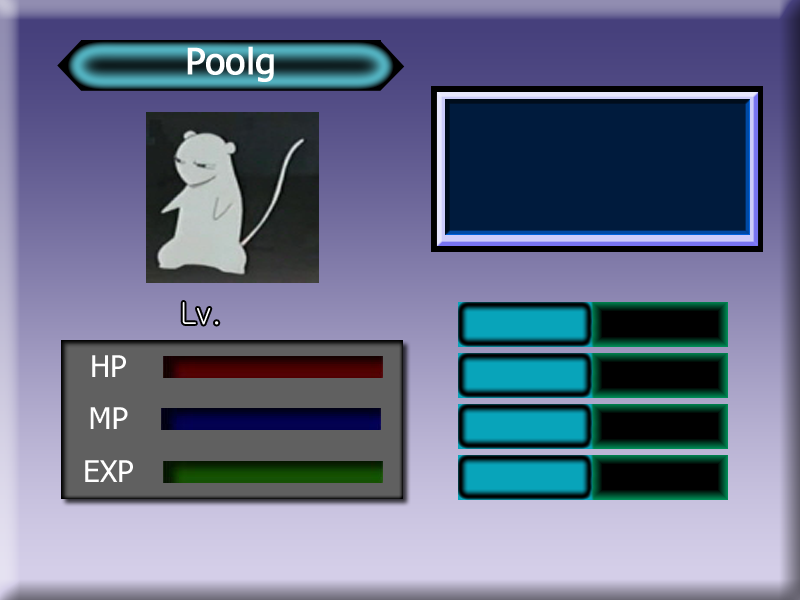
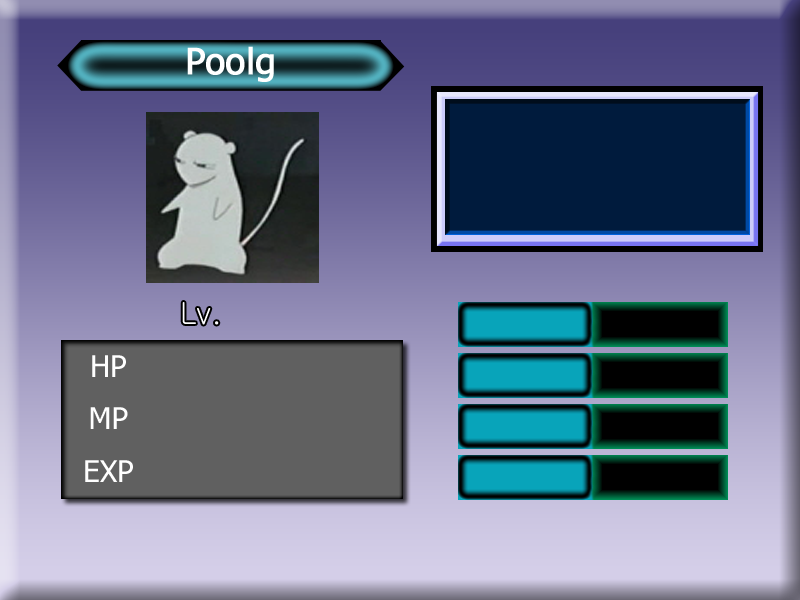
메뉴의 오류 수정, 상태창에서 현재 HP확인 가능
git-svn-id: svn://gasbank.kaist.ac.kr/poolg/trunk@268 20279357-db7c-4b2f-af4c-8ae08146ad34

Changed region(s): [[0.1875, 0.75, 0.5, 0.81], [0.1875, 0.66, 0.5, 0.72], [0.1875, 0.57, 0.5, 0.63]]

diff --git a/Src/EmptyProject/MenuState.cpp b/Src/EmptyProject/MenuState.cpp
@@ -1,8 +1,13 @@
 #include "EmptyProjectPCH.h"
 #include "MenuState.h"
 #include "WorldStateManager.h"
+#include "Character.h"
+#include "WorldState.h"
+#include "TopStateManager.h"
 
 int loc = 4;
+float curHp = 0;
+float maxHp = 0;
 bool op_st = false;
 bool op_sa = false;
 bool op_lo = false;
@@ -100,6 +105,9 @@ HRESULT MenuState::frameMove(double fTime, float fElapsedTime)
 	m_stwin.frameMove(fElapsedTime);
 	m_sawin.frameMove(fElapsedTime);
 	m_lowin.frameMove(fElapsedTime);
+
+	m_hpbar.frameMove(fElapsedTime);
+	m_hpbg.frameMove(fElapsedTime);
 	
 	//m_selc.setPos(m_selc.getPos()->x, pos, m_selc.getPos()->z);
 
@@ -131,7 +139,7 @@ HRESULT MenuState::frameRender(IDirect3DDevice9* pd3dDevice,  double fTime, floa
 	
 	m_stub.draw();
 	//if ( m_nextState == m_states[1] )
-		m_sanub.draw();
+		m_saub.draw();
 	//else m_saub.draw();
 	m_loub.draw();
 	m_seub.draw();
@@ -160,6 +168,8 @@ HRESULT MenuState::frameRender(IDirect3DDevice9* pd3dDevice,  double fTime, floa
 	if ( op_st == true )
 	{
 		m_stwin.draw();
+		m_hpbg.draw();
+		m_hpbar.draw();
 	}
 	if ( op_sa == true )
 	{
@@ -194,7 +204,8 @@ HRESULT MenuState::handleMessages(HWND hWnd, UINT uMsg, WPARAM wParam, LPARAM lP
 				select( 0 );
 				break;
 			case VK_F5:
-				GetWorldStateManager().setNextStateAsPrevState();
+				if ( !op_st && !op_sa && !op_lo )
+					GetWorldStateManager().setNextStateAsPrevState();
 				break;
 		}
 	}
@@ -225,6 +236,9 @@ HRESULT MenuState::release()
 	m_sawin.release();
 	m_lowin.release();
 
+	m_hpbar.release();
+	m_hpbg.release();
+
 	SAFE_RELEASE( m_lblHYnamL );
 	SAFE_RELEASE( m_lblREB);
 
@@ -233,6 +247,7 @@ HRESULT MenuState::release()
 
 MenuState::MenuState()
 {
+
 	HRESULT hr;
 	m_pDev = GetG().m_dev;
 	float scrWidth = (float)GetG().m_scrWidth;
@@ -310,6 +325,14 @@ MenuState::MenuState()
 	m_lowin.setPos ( 0 - scrWidth / 2, 0 - scrHeight / 2, 2.6f);
 	m_lowin.setSize(scrWidth, scrHeight);
 
+	m_hpbar.init(L"Images/BattleUI/HPbar.jpg", m_pDev);
+	m_hpbar.setPos ( (0 - scrWidth / 2) + 163, (0 - scrHeight / 2) + 223, 2.4f);
+
+	m_hpbg.init(L"Images/BattleUI/HPbg.jpg", m_pDev);
+	m_hpbg.setPos ( (0 - scrWidth / 2) + 163, (0 - scrHeight / 2) + 223, 2.5f);
+	m_hpbg.setSize(220, 22);
+	
+
 
 	V( D3DXCreateFont(m_pDev, 17, 0, FW_NORMAL, 1, FALSE, DEFAULT_CHARSET, OUT_RASTER_PRECIS, DEFAULT_QUALITY, DEFAULT_PITCH | FF_DONTCARE, _T("HYnamL"), &m_lblHYnamL) );
 	V( D3DXCreateFont(m_pDev, 18, 0, FW_NORMAL, 1, FALSE, DEFAULT_CHARSET, OUT_RASTER_PRECIS, DEFAULT_QUALITY, DEFAULT_PITCH | FF_DONTCARE, _T("Rockwell Extra Bold"), &m_lblREB) );
@@ -323,6 +346,15 @@ MenuState::~MenuState()
 HRESULT MenuState::enter()
 {
 
+	TopStateManager& ts = GetTopStateManager();
+	WorldState* ws = static_cast<WorldState*>( ts.getCurState() );
+	
+	if ( ws->getHero() != 0 )
+	{
+		curHp = (float)( (Character*) ws->getHero() )->getCurHp();
+		maxHp = (float)( (Character*) ws->getHero() )->getMaxHp();
+		m_hpbar.setSize(220 * (curHp / maxHp), 22);
+	}
 	return S_OK;
 }
 
@@ -331,6 +363,7 @@ HRESULT MenuState::leave()
 
 	return S_OK;
 }
+
 /*
 void MenuState::drawFixedText(int scrWidth, int scrHeight)
 {

diff --git a/Src/EmptyProject/MenuState.h b/Src/EmptyProject/MenuState.h
@@ -44,4 +44,7 @@ private:
 	Picture m_stwin;
 	Picture m_sawin;
 	Picture m_lowin;
+
+	Picture m_hpbar;
+	Picture m_hpbg;
 };
